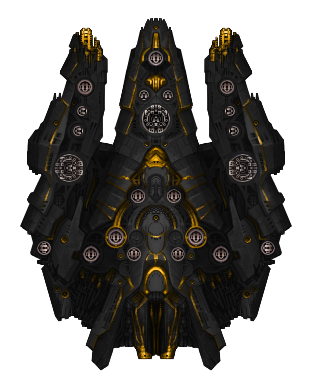
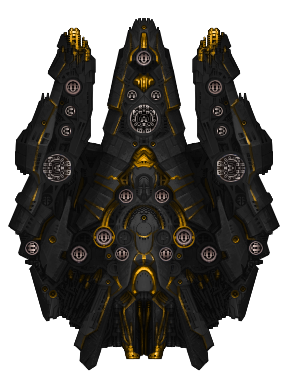
-fixed domint onslaught skin. -changed portrait of random characters to one singular stellaris portrait.

diff --git a/src/poggers/oldlegion/utils/OldLegionPeople.java b/src/poggers/oldlegion/utils/OldLegionPeople.java
@@ -44,13 +44,18 @@ public class OldLegionPeople {
             capt_zeratul_person.setPostId("fleetCommander");
             capt_zeratul_person.setImportance(PersonImportance.HIGH);
             capt_zeratul_person.getName().setFirst("Zeratul");
-            capt_zeratul_person.setPortraitSprite(Global.getSettings().getSpriteName("characters", "kanta"));
+            capt_zeratul_person.getName().setLast("Khalaidar");
+            capt_zeratul_person.getStats().setLevel(8);
+            capt_zeratul_person.getStats().setSkillLevel("ballistic_mastery", 2.0F);
+            capt_zeratul_person.getStats().setSkillLevel("gunnery_implants", 1.0F);
+            capt_zeratul_person.getStats().setSkillLevel("impact_mitigation", 1.0F);
+            capt_zeratul_person.getStats().setSkillLevel("target_analysis", 1.0F);
+            capt_zeratul_person.getStats().setSkillLevel("helmsmanship", 1.0F);
+            capt_zeratul_person.getStats().setSkillLevel("polarized_armor", 1.0F);
+            //capt_zeratul_person.setPortraitSprite(Global.getSettings().getSpriteName("characters", "baird"));
             if (!ip.containsPerson(capt_zeratul_person)) {
                 log.info("OLDLEGION_RETROGEN: Zeratul Person did not exist. He has been generated retroactively");
                 ip.addPerson(capt_zeratul_person);
-                market.addPerson(capt_zeratul_person);
-                market.getCommDirectory().addPerson(capt_zeratul_person, 0);
-                market.getCommDirectory().getEntryForPerson(capt_zeratul_person).setHidden(false);
 
             } else {
                 log.info("OLDLEGION_RETROGEN: Zeratul Person already exists. No action taken");
@@ -64,7 +69,7 @@ public class OldLegionPeople {
             oldlegion_solaxwhitemore_person.setPostId("supplyOfficer");
             oldlegion_solaxwhitemore_person.setImportance(PersonImportance.HIGH);
             oldlegion_solaxwhitemore_person.getName().setFirst("Solax Whitemore");
-            oldlegion_solaxwhitemore_person.setPortraitSprite(Global.getSettings().getSpriteName("characters", "kanta"));
+            //oldlegion_solaxwhitemore_person.setPortraitSprite(Global.getSettings().getSpriteName("characters", "kanta"));
             if (!ip.containsPerson(oldlegion_solaxwhitemore_person)) {
                 log.info("OLDLEGION_RETROGEN: Solax Person did not exist. He has been generated retroactively");
                 ip.addPerson(oldlegion_solaxwhitemore_person);

diff --git a/src/poggers/oldlegion/OldLegionModPlugin.java b/src/poggers/oldlegion/OldLegionModPlugin.java
@@ -11,7 +11,6 @@ public class OldLegionModPlugin extends BaseModPlugin {
         new OldLegionModGen().generate(Global.getSector());
     }
 
-    // TODO: GateJumpTracker add math to increase chance with every jump
     // TODO: Actual Dialog and art for characters
     // TODO: Actual quests and stuff for reputation
     // TODO: change license

diff --git a/src/poggers/oldlegion/utils/OldLegionPersons.java b/src/poggers/oldlegion/utils/OldLegionPersons.java
@@ -10,7 +10,7 @@ import com.fs.starfarer.api.characters.FullName.Gender;
 public class OldLegionPersons {
     public void create() {
         new Zeratul();
-
+        //zeratul is currently unused
     }
 
     public class Zeratul {
